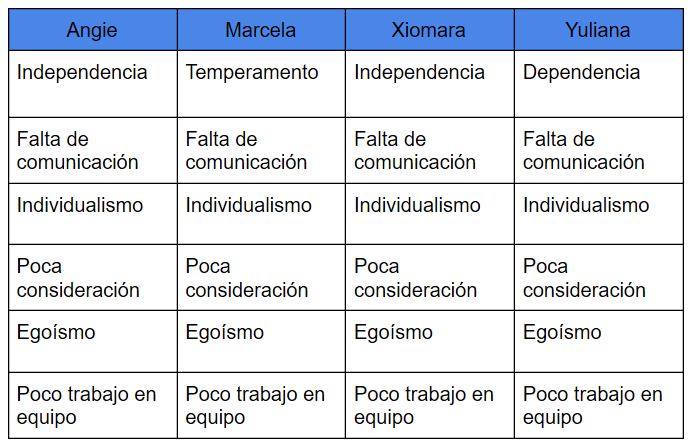
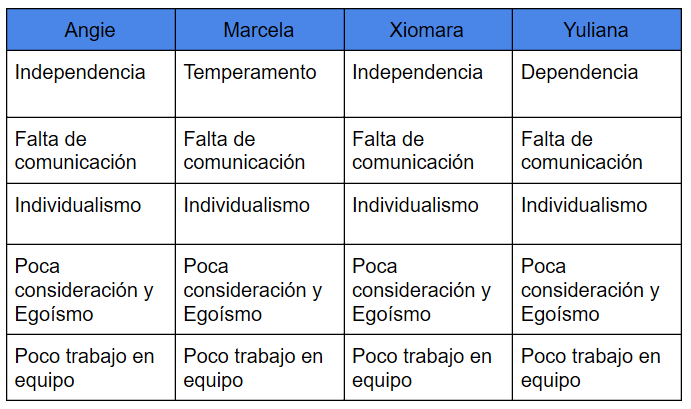
commit on master

Changed region(s): [[0.0, 0.0, 1.0, 0.9976]]

diff --git a/Retrospectiva_SP_1.html b/Retrospectiva_SP_1.html
@@ -119,11 +119,11 @@
                                    <h6 class="text-left">Soluciones</h6>     
                                       <ul>
                                         <li>-Falta de comunicación: Para solucionar esta falencia, se realizará en cada sesión una reunión que permita conocer los avances de cada integrante.</li>
-                                        <li>-Dependencia:</li>
-                                        <li>-Independencia: Al haber 2 integrantes con este problema</li>
-                                        <li>-Individualismo:</li>
-                                        <li>-Poca consideración:</li>
-                                        <li>-Egoísmo:  </li>
+										<li>-Dependencia: Evitar asignaciones de tareas que generen dependencia de otras tareas de cada integrante.</li>
+										<li>-Independencia: Gracias a las reuniones en cada sesión se hablará acerca de las tareas de modo que no haya individuales en cada tarea y que llegue a afectar a un integrante.</li>
+                                        <li>-Individualismo: Cada integrante se compromete a mostrar sus avances.</li>
+										<li>-Temperamento: Respirar profundo por 5s e intentar comunicarse de manera pasiva</li>
+                                        <li>-Poca consideración y Egoísmo: Si un integrante presenta dificultades lo comunicará al grupo para que los demás integrantes puede colaborar y solucionar.</li>
                                         <li>-Falta de trabajo en equipo: Se impulsará la comunicación, ya que la única manera de que todos los miembros de un equipo trabajen como una orquesta es que existan los canales de comunicación adecuados, que se escuchen y haya una retroalimentación.</li>
                                       </ul>
 
